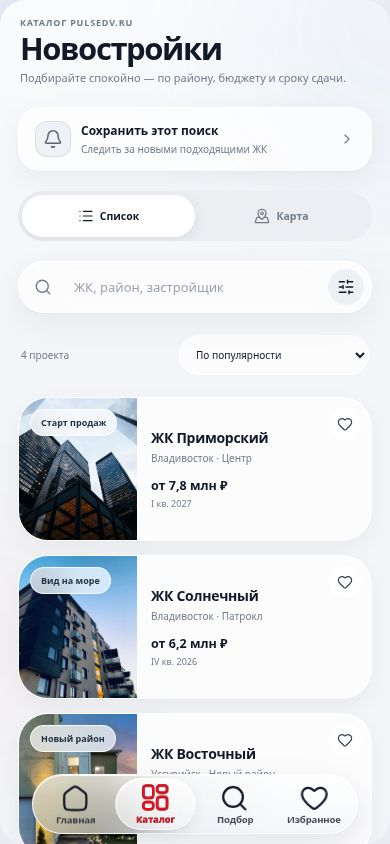
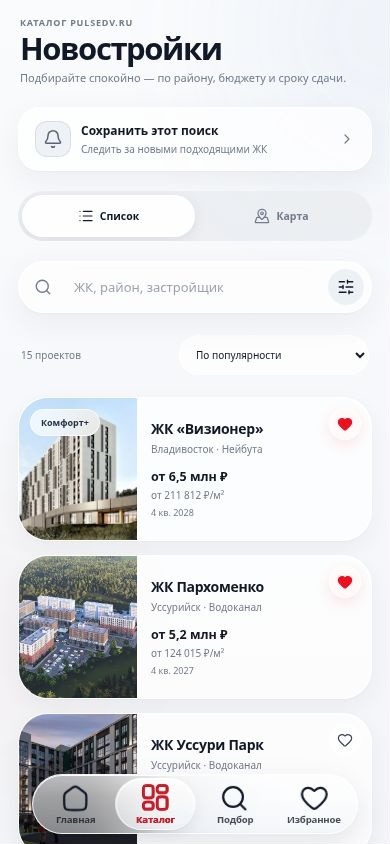
design: add cinematic phone scenes with actual app captures

diff --git a/design/landing-dual-entry/cinema.js b/design/landing-dual-entry/cinema.js
@@ -1,0 +1,85 @@
+// Physically rendered phones composited with continuous browser motion.
+// No WebGL, external scripts, authentication or API calls at runtime.
+const host=document.querySelector('.cinema');
+const stage=document.querySelector('.showcase');
+const pauseButton=document.querySelector('.motion-toggle');
+const caption=document.querySelector('.scene-caption');
+const label=document.querySelector('.scene-label');
+const description=document.querySelector('.scene-description');
+const dots=[...document.querySelectorAll('.scene-dot')];
+const reduced=matchMedia('(prefers-reduced-motion: reduce)');
+const sceneSpecs=[
+ {title:'Новостройки — перед вами.',label:'Выбирайте',screens:['home','catalog'],poses:[[-.97,.32,.25,-.07,.22,-.10,.98],[1.02,-.25,-.42,.08,-.27,.09,.90]]},
+ {title:'Рассмотрите всё до деталей.',label:'Находите своё',screens:['property','floorplans'],poses:[[-.90,-.16,.1,.03,.29,-.12,1.02],[1.12,.43,-.64,-.05,-.30,.16,.84]]},
+ {title:'Сравните варианты. Рассчитайте платёж.',label:'Решайте спокойно',screens:['favorites','mortgage'],poses:[[-1.08,.46,-.55,-.08,.27,-.16,.86],[.93,-.10,.24,.04,-.23,.10,1.01]]},
+ {title:'Рекомендуйте PULSE. Получайте больше.',label:'Партнёрская программа',screens:['partners','home'],poses:[[-.76,.05,.42,.02,.18,-.07,1.08],[1.25,.25,-1.05,-.04,-.32,.17,.78]]},
+ {title:'Новая квартира. Новый iPhone?',label:'Новогодний розыгрыш',screens:['catalog','giveaway'],poses:[[-1.05,.30,-.70,-.04,.32,-.14,.85],[.81,-.13,.38,.02,-.17,.09,1.07]]},
+];
+
+const paths=[...document.querySelectorAll('.flow-line')];
+let raf=0,clock=0,lastTime=0,manualPause=false,inView=true,current=0,initial=true;
+let active=null,leaving=null,transitionAt=0;
+let dimensions={width:600,height:700};
+const clamp=x=>Math.max(0,Math.min(1,x));
+const ease=t=>1-Math.pow(1-t,4);
+function createPair(index){
+ const pair=document.createElement('div');pair.className='phone-pair';pair.dataset.index=String(index);pair.setAttribute('aria-hidden','true');
+ sceneSpecs[index].screens.forEach(name=>{const image=document.createElement('img');image.className='rendered-phone';image.src=`assets/phone-${name}.webp`;image.alt='';image.width=700;image.height=1440;image.draggable=false;pair.append(image);});host.append(pair);return pair;
+}
+function select(index){
+ if(index===current&&!initial)return;
+ leaving?.remove();leaving=active;current=index;active=createPair(index);transitionAt=clock;initial=false;
+ caption.textContent=sceneSpecs[index].title;label.textContent=sceneSpecs[index].label;
+ dots.forEach((d,i)=>d.setAttribute('aria-current',String(i===index)));stage.dataset.scene=String(index);
+}
+function position(pair,phase,dir){
+ if(!pair)return;const poses=sceneSpecs[Number(pair.dataset.index)].poses;
+ [...pair.children].forEach((p,i)=>{
+  const a=poses[i],t=clamp((phase-i*.11)/1.30),e=ease(t),drift=Math.sin(clock*.49+i*1.9)*.018;
+  const shift=dir==='in'?(1-e)*1.30:dir==='out'?-Math.pow(t,3)*1.40:0;
+  const x=(a[0]*.173+shift)*dimensions.width;
+  const y=(-a[1]*.155+drift+(dir==='in'?(1-e)*(i?-.10:.12):dir==='out'?-t*.09:0))*dimensions.height;
+  const roll=(a[5]+(dir==='in'?(1-e)*-.18:dir==='out'?t*.17:0))*180/Math.PI;
+  const turn=Math.sin(clock*.24+i)*2+(dir==='in'?(1-e)*-12:0);
+  p.style.transform=`translate(-50%,-50%) translate3d(${x.toFixed(2)}px,${y.toFixed(2)}px,0) rotate(${roll.toFixed(2)}deg) perspective(1000px) rotateY(${turn.toFixed(2)}deg) scale(${a[6]})`;
+  p.style.opacity=String(dir==='in'?clamp(phase*3-i*.15):1-clamp((t-.70)/.30));
+  p.style.zIndex=String(Math.round((a[2]+2)*10));
+ });
+}
+const lineScenes=[
+ [470,240,160,-30,435,770],
+ [370,430,310,-140,360,920],
+ [535,180,10,140,555,530],
+ [390,360,180,-30,470,840],
+ [490,210,280,-180,380,700]
+];
+function lines(time,phase){
+ const now=lineScenes[current],prev=lineScenes[Number(leaving?.dataset.index??current)];const blend=ease(clamp(phase/1.8));
+ const a=now.map((v,i)=>prev[i]+(v-prev[i])*blend);
+ paths.forEach((p,i)=>{const offset=i*14,wave=Math.sin(time*.26+i*.05)*16;p.setAttribute('d',`M -120 ${a[0]+offset+wave} C ${a[2]} ${a[3]+offset}, ${a[4]} ${a[5]+offset+wave}, 810 ${a[1]+offset}`);});
+}
+function draw(timestamp){
+ raf=0;const dt=lastTime?Math.min(.25,(timestamp-lastTime)/1000):0;lastTime=timestamp;
+ if(!manualPause&&!reduced.matches&&!document.hidden&&inView)clock+=dt;
+ if(!manualPause&&!reduced.matches&&clock-transitionAt>7.4)select((current+1)%sceneSpecs.length);
+ const phase=reduced.matches?2:clock-transitionAt;
+ position(active,phase,'in');position(leaving,phase,'out');lines(clock,phase);
+ description.style.opacity=String(clamp((phase-.35)*1.9));
+ if(phase>1.6&&leaving){leaving.remove();leaving=null;}
+ if(!document.hidden&&inView&&!manualPause&&!reduced.matches)raf=requestAnimationFrame(draw);
+}
+function redraw(){if(!raf){lastTime=0;raf=requestAnimationFrame(draw);}}
+function pauseUI(){pauseButton.setAttribute('aria-pressed',String(manualPause));pauseButton.setAttribute('aria-label',manualPause?'Продолжить анимацию':'Приостановить анимацию');pauseButton.querySelector('.pause-icon').hidden=manualPause;pauseButton.querySelector('.play-icon').hidden=!manualPause;if(manualPause){cancelAnimationFrame(raf);raf=0;}redraw();}
+async function init(){
+ const names=[...new Set(sceneSpecs.flatMap(s=>s.screens))];
+ await Promise.all(names.map(name=>new Promise((resolve,reject)=>{const image=new Image();image.onload=()=>resolve();image.onerror=reject;image.src=`assets/phone-${name}.webp`;})));
+ select(0);if(reduced.matches)clock=2;
+ stage.classList.add('cinema-ready');host.setAttribute('aria-busy','false');
+ new ResizeObserver(()=>{const r=host.getBoundingClientRect();dimensions={width:r.width,height:r.height};redraw();}).observe(host);
+ pauseButton.addEventListener('click',()=>{manualPause=!manualPause;pauseUI();});
+ dots.forEach((d,i)=>d.addEventListener('click',()=>{select(i);if(reduced.matches||manualPause)clock=transitionAt+2;redraw();}));
+ document.addEventListener('visibilitychange',()=>{if(document.hidden){cancelAnimationFrame(raf);raf=0;}else redraw();});
+ new IntersectionObserver(entries=>{inView=entries[0].isIntersecting;if(inView)redraw();else{cancelAnimationFrame(raf);raf=0;}},{threshold:.01}).observe(stage);
+ reduced.addEventListener('change',()=>{clock=transitionAt+2;pauseUI();});redraw();
+}
+init().catch(()=>{host.setAttribute('aria-busy','false');document.querySelector('.scene-controls').hidden=true;});

diff --git a/design/landing-dual-entry/style.css b/design/landing-dual-entry/style.css
@@ -8,3 +8,42 @@
 @media(min-width:960px){.entry-button{flex:1;max-width:240px}.phone-catalog{right:6%}}
 @media(max-width:480px){.phone{width:calc(50% - 9px);height:auto;aspect-ratio:183/400}.phone-screen{position:absolute;inset:5px;width:auto;height:auto}.phone-home{left:9px}.phone-catalog{right:9px}}
 @media(prefers-reduced-motion:reduce){*{transition:none!important}}
+
+/* Cinematic product stage. Phone geometry and materials live in cinema.js. */
+.hero{grid-template-columns:.94fr 1.06fr;gap:0;min-height:650px;padding-bottom:24px}
+.showcase{height:min(720px,calc(100svh - 165px));min-height:570px;width:calc(100% + 48px);margin-left:-8px;isolation:isolate;overflow:clip;contain:layout paint}
+.cinema{position:absolute;inset:-8% -9% 3%;z-index:2;pointer-events:none}
+.cinema canvas{display:block;width:100%;height:100%;outline:none}
+.flow-pattern{position:absolute;width:120%;height:106%;left:-10%;top:-8%;overflow:visible;z-index:0;pointer-events:none}
+.flow-line{fill:none;stroke:#d5d0cc;stroke-width:.8;opacity:.55;vector-effect:non-scaling-stroke}
+.flow-line:nth-of-type(2){opacity:.35}.flow-line:nth-of-type(3){opacity:.25}.flow-line:nth-of-type(5){opacity:.20}
+.flow-line-red{stroke:url(#flow-ink);stroke-width:1.5;opacity:.85}
+.stage-shadow{position:absolute;left:13%;right:6%;height:9%;bottom:13%;background:radial-gradient(ellipse,#605b5524,transparent 68%);filter:blur(13px);transform:rotate(-6deg);z-index:1;pointer-events:none}
+.scene-description{position:absolute;bottom:6%;left:8%;right:4%;z-index:3;text-align:center;pointer-events:none}
+.scene-label{display:block;color:var(--red);font-size:10px;font-weight:600;letter-spacing:.1em;text-transform:uppercase;margin-bottom:6px}
+.scene-caption{font-size:clamp(14px,1.25vw,18px);font-weight:600;letter-spacing:-.03em;line-height:1.4}
+.scene-controls{position:absolute;bottom:0;left:0;right:0;display:flex;justify-content:center;gap:15px;align-items:center;z-index:4}
+.scene-picker{display:flex;gap:2px;align-items:center}.scene-dot{appearance:none;border:0;background:none;padding:10px 6px;cursor:pointer;width:23px;height:30px;position:relative}
+.scene-dot:before{content:"";display:block;height:3px;width:11px;border-radius:10px;background:#dedfe2;transition:background .3s,width .3s}
+.scene-dot[aria-current="true"]{width:35px}.scene-dot[aria-current="true"]:before{background:var(--red);width:23px}
+.motion-toggle{border:1px solid #e7e7e8;border-radius:50%;background:white;width:30px;height:30px;display:grid;place-items:center;cursor:pointer;color:#6a6b70;padding:0}
+.motion-toggle svg{width:13px;height:13px;stroke-width:2}.motion-toggle [hidden]{display:none}.scene-controls[hidden]{display:none}
+.scene-dot:focus-visible,.motion-toggle:focus-visible{outline:2px solid var(--red);outline-offset:2px}
+.fallback-phones{position:absolute;inset:5% 4% 16%;z-index:1;display:flex;align-items:center;justify-content:center;gap:8%;transition:opacity .35s}
+.fallback-phone{width:44%;border:5px solid #17181a;border-radius:34px;overflow:hidden;box-shadow:0 18px 22px -16px #0006;transform:rotate(-6deg)}
+.fallback-phone:last-child{transform:translateY(32px) rotate(7deg)}.fallback-phone img{width:100%;height:auto}.cinema-ready .fallback-phones{opacity:0;visibility:hidden}
+.no-motion-note{position:absolute;bottom:-30px;font-size:12px;text-align:center;width:100%}
+@media(min-width:1500px){.showcase{min-height:650px;max-height:790px}.hero{min-height:730px}}
+@media(min-width:960px) and (max-width:1190px){.showcase{min-height:520px;height:620px;width:calc(100% + 28px)}.scene-caption{font-size:15px}.hero{min-height:610px}}
+@media(max-width:959px){.hero{gap:14px;padding-bottom:0}.showcase{margin:0;width:calc(100% + 40px);min-height:0;height:660px;overflow:clip}.cinema{inset:-7% -3% 5%}.scene-description{bottom:7%;left:3%;right:3%}.scene-caption{font-size:18px}.scene-controls{bottom:0}.footer{padding-top:24px}.copy{z-index:3}}
+@media(max-width:480px){.showcase{height:500px;min-height:0;width:calc(100% + 36px)}.cinema{inset:-9% -17% 2%}.hero{gap:12px}.scene-description{bottom:9%;left:7%;right:7%}.scene-caption{font-size:15px}.scene-label{font-size:9px}.scene-controls{bottom:1%}.flow-pattern{width:130%;left:-15%}.stage-shadow{bottom:16%}.fallback-phones{inset:7% 6% 19%;gap:6%}.fallback-phone{border-radius:25px}.footer{padding-top:18px}}
+@media(max-width:360px){.showcase{height:450px}.scene-caption{font-size:13px}}
+@media(prefers-reduced-motion:reduce){.flow-line{transition:none}.scene-dot:before{transition:none}}
+
+.phone-pair{position:absolute;inset:0;pointer-events:none}.rendered-phone{position:absolute;left:50%;top:46%;width:43%;max-width:none;height:auto;will-change:transform;filter:drop-shadow(9px 20px 12px #27232020);backface-visibility:hidden}.cinema{inset:-3% -6% 7%}.scene-description{bottom:7%}
+@media(max-width:959px){.cinema{inset:-2% -2% 9%}.rendered-phone{width:43%}}
+@media(max-width:480px){.cinema{inset:-4% -14% 9%}.rendered-phone{width:43%}.scene-description{bottom:9%}}
+
+@media(min-width:960px){.rendered-phone{width:35%;top:50%}}
+
+@media(max-width:480px){.rendered-phone{width:37%}}

diff --git a/design/landing-dual-entry/index.html b/design/landing-dual-entry/index.html
@@ -3,6 +3,8 @@
 <head>
 <meta charset="utf-8"><meta name="viewport" content="width=device-width, initial-scale=1"><meta name="theme-color" content="#fff">
 <title>PULSEDV.RU — приложение на вашем телефоне</title>
+<meta name="description" content="Новостройки Приморья в PULSEDV.RU: каталог, планировки, расчёт ипотеки и партнёрская программа.">
+<link rel="preload" as="image" href="assets/app-home.jpg">
 <link rel="icon" href="assets/pulse-mark-180-v2.png"><link rel="stylesheet" href="style.css">
 </head>
 <body>
@@ -32,10 +34,21 @@
 </div>
 
 </section>
-<section class="showcase" aria-label="Интерфейс приложения PULSEDV.RU">
-<div class="phone phone-home"><div class="phone-edge"></div><div class="phone-screen"><div class="status"><span>9:41</span><span class="status-icons"><i></i><b>◔</b><em></em></span></div><div class="island"></div><img class="screen-image" src="assets/app-home.jpg" alt="Главная PULSEDV.RU: поиск ЖК, ипотека и избранное" width="390" height="844"><div class="home-indicator"></div></div></div>
-<div class="phone phone-catalog"><div class="phone-edge"></div><div class="phone-screen"><div class="status"><span>9:41</span><span class="status-icons"><i></i><b>◔</b><em></em></span></div><div class="island"></div><div class="catalog-crop" role="img" aria-label="Каталог PULSEDV.RU с фильтрами и карточками новостроек"><img src="assets/app-catalog.jpg" alt="" width="390" height="844"></div><div class="home-indicator"></div></div></div>
+<section class="showcase" aria-label="Возможности приложения PULSEDV.RU">
+ <svg class="flow-pattern" viewBox="0 0 700 700" preserveAspectRatio="none" aria-hidden="true"><defs><linearGradient id="flow-ink" x1="0" y1="1" x2="1" y2="0"><stop stop-color="#df1428" stop-opacity="0"/><stop offset=".3" stop-color="#df1428"/><stop offset=".8" stop-color="#df1428" stop-opacity=".45"/><stop offset="1" stop-color="#df1428" stop-opacity="0"/></linearGradient></defs>
+ <path class="flow-line" d="M -120 410 C 300 -40 430 655 810 125"/><path class="flow-line" d="M -120 425 C 300 -25 430 670 810 140"/><path class="flow-line" d="M -120 440 C 300 -10 430 685 810 155"/><path class="flow-line flow-line-red" d="M -120 455 C 300 5 430 700 810 170"/><path class="flow-line" d="M -120 470 C 300 20 430 715 810 185"/>
+ </svg>
+ <div class="stage-shadow" aria-hidden="true"></div>
+ <div class="fallback-phones" aria-hidden="true"><div class="fallback-phone"><img src="assets/app-home.jpg" alt="" width="390" height="844"></div><div class="fallback-phone"><img src="assets/app-catalog.jpg" alt="" width="390" height="844"></div></div>
+ <div class="cinema" role="img" aria-label="Объёмные телефоны с экранами каталога, ЖК, ипотеки, партнёрской программы и конкурса" aria-busy="true"></div>
+ <div class="scene-description"><span class="scene-label">Выбирайте</span><p class="scene-caption">Новостройки — перед вами.</p></div>
+ <div class="scene-controls" aria-label="Сцены презентации">
+  <div class="scene-picker"><button class="scene-dot" aria-label="Каталог и главная" aria-current="true"></button><button class="scene-dot" aria-label="ЖК и планировки" aria-current="false"></button><button class="scene-dot" aria-label="Избранное и ипотека" aria-current="false"></button><button class="scene-dot" aria-label="Партнёрская программа" aria-current="false"></button><button class="scene-dot" aria-label="Новогодний розыгрыш" aria-current="false"></button></div>
+  <button class="motion-toggle" aria-label="Приостановить анимацию" aria-pressed="false"><svg class="pause-icon" viewBox="0 0 24 24"><path d="M9 6v12M15 6v12"/></svg><svg class="play-icon" viewBox="0 0 24 24" hidden><path d="m9 5 10 7-10 7Z"/></svg></button>
+ </div>
+ <noscript><p class="no-motion-note">Каталог, подбор квартиры, ипотека и партнёрская программа — в PULSE.</p></noscript>
 </section>
 </main>
 <footer class="wrap footer"><p>Владивосток <span>·</span> Уссурийск <span>·</span> Артём</p><p>PULSEDV.RU <i></i> Больше, чем квадратные метры</p></footer>
+<script type="module" src="cinema.js"></script>
 </body></html>

diff --git a/design/landing-dual-entry/source/render_phones.py b/design/landing-dual-entry/source/render_phones.py
@@ -1,0 +1,75 @@
+"""Blender 4.3: physically shaded phone renders; no external model or textures.
+Run from design/landing-dual-entry with blender -b -t 8 --python source/render_phones.py
+"""
+import bpy,math,os
+from mathutils import Vector
+from pathlib import Path
+root=Path(__file__).resolve().parents[1]
+bpy.ops.object.select_all(action='SELECT');bpy.ops.object.delete(use_global=False)
+scene=bpy.context.scene;scene.render.engine='CYCLES';scene.cycles.samples=80;scene.cycles.use_denoising=False
+scene.render.resolution_x=700;scene.render.resolution_y=1440;scene.render.resolution_percentage=100;scene.render.film_transparent=True
+scene.view_settings.view_transform='Standard';scene.view_settings.look='Medium High Contrast';scene.view_settings.exposure=0;scene.view_settings.gamma=1
+scene.world.color=(.25,.25,.25)
+
+def mat(name,color,metal=0,rough=.3):
+ m=bpy.data.materials.new(name);m.diffuse_color=(*color,1);m.use_nodes=True
+ p=m.node_tree.nodes.get('Principled BSDF');p.inputs['Base Color'].default_value=(*color,1);p.inputs['Metallic'].default_value=metal;p.inputs['Roughness'].default_value=rough
+ return m
+rim=mat('Natural titanium',(0.42,.405,.385),1,.23)
+black=mat('Polished glass edge',(.012,.014,.018),.4,.12)
+back=mat('Satin titanium',(.23,.225,.22),.7,.35)
+antenna=mat('Antenna ceramic',(.09,.09,.09),0,.5)
+pillmat=mat('Dynamic island',(.002,.002,.003),0,.18)
+lensmat=mat('Camera sapphire',(.012,.025,.055),.75,.12)
+rootobj=bpy.data.objects.new('iPhone',None);scene.collection.objects.link(rootobj)
+
+def contour(w,h,r,n=20):
+ out=[]
+ for cx,cy,a in [(w/2-r,h/2-r,0),(-w/2+r,h/2-r,90),(-w/2+r,-h/2+r,180),(w/2-r,-h/2+r,270)]:
+  for i in range(n+1):
+   th=math.radians(a+i*90/n);out.append((cx+r*math.cos(th),cy+r*math.sin(th)))
+ return out
+
+def body(name,w,h,r,d,z,m):
+ co=contour(w,h,r);n=len(co);verts=[(x,y,z-d/2) for x,y in co]+[(x,y,z+d/2) for x,y in co]
+ faces=[tuple(reversed(range(n))),tuple(range(n,2*n))]+[(i,(i+1)%n,(i+1)%n+n,i+n) for i in range(n)]
+ mesh=bpy.data.meshes.new(name);mesh.from_pydata(verts,[],faces);mesh.update();o=bpy.data.objects.new(name,mesh);scene.collection.objects.link(o);o.parent=rootobj;mesh.materials.append(m)
+ for f in mesh.polygons:f.use_smooth=len(f.vertices)==4
+ bevel=o.modifiers.new('Machined edge','BEVEL');bevel.width=.009;bevel.segments=3
+ o.modifiers.new('Corner normals','WEIGHTED_NORMAL');return o
+body('Titanium chassis',1.73,3.73,.29,.16,0,rim)
+body('Glass perimeter',1.698,3.697,.273,.025,.086,black)
+body('Rear glass',1.696,3.695,.273,.015,-.087,back)
+
+def plane(name,w,h,r,z,m):
+ co=contour(w,h,r,32);mesh=bpy.data.meshes.new(name);mesh.from_pydata([(x,y,z) for x,y in co],[],[tuple(range(len(co)))]);mesh.update()
+ uv=mesh.uv_layers.new(name='UVMap')
+ for f in mesh.polygons:
+  for li in f.loop_indices:
+   v=mesh.vertices[mesh.loops[li].vertex_index].co;uv.data[li].uv=(v.x/w+.5,v.y/h+.5)
+ o=bpy.data.objects.new(name,mesh);scene.collection.objects.link(o);o.parent=rootobj;mesh.materials.append(m);return o
+screenmat=bpy.data.materials.new('OLED screen');screenmat.use_nodes=True;nt=screenmat.node_tree;nt.nodes.clear();out=nt.nodes.new('ShaderNodeOutputMaterial');em=nt.nodes.new('ShaderNodeEmission');em.inputs['Strength'].default_value=.92;tex=nt.nodes.new('ShaderNodeTexImage');nt.links.new(tex.outputs['Color'],em.inputs['Color']);nt.links.new(em.outputs[0],out.inputs['Surface'])
+plane('OLED',1.597,3.588,.23,.106,screenmat)
+pill=plane('Dynamic island',.43,.112,.056,.108,pillmat);pill.location.y=1.68
+bpy.ops.mesh.primitive_uv_sphere_add(segments=24,ring_count=12,radius=.019,location=(.145,1.68,.11));lens=bpy.context.object;lens.scale.z=.13;lens.data.materials.append(lensmat);lens.parent=rootobj
+for x,y,l in [(-.876,.96,.18),(-.876,.49,.36),(-.876,-.02,.36),(.876,.48,.56)]:
+ bpy.ops.mesh.primitive_cube_add(size=1,location=(x,y,0));o=bpy.context.object;o.name='Titanium button';o.dimensions=(.025,l,.055);bpy.ops.object.transform_apply(location=False,rotation=False,scale=True);o.parent=rootobj;o.data.materials.append(rim);mod=o.modifiers.new('Rounded button','BEVEL');mod.width=.012;mod.segments=5;o.modifiers.new('Normals','WEIGHTED_NORMAL')
+for x in [-.869,.869]:
+ for y in [-1.28,1.28]:
+  bpy.ops.mesh.primitive_cube_add(size=1,location=(x,y,0));o=bpy.context.object;o.dimensions=(.004,.024,.15);o.data.materials.append(antenna);o.parent=rootobj
+
+def light(name,loc,power,size,target=(0,0,0),scale=None):
+ data=bpy.data.lights.new(name,'AREA');data.energy=power;data.shape='RECTANGLE';data.size=size;data.size_y=size*.6
+ o=bpy.data.objects.new(name,data);scene.collection.objects.link(o);o.location=loc;o.rotation_euler=(Vector(target)-o.location).to_track_quat('-Z','Y').to_euler()
+light('Large softbox left',(-3,4,5),450,4)
+light('White strip right',(3,1,2),300,2)
+light('Edge strip',(-2,-2,-1),350,3)
+light('Front fill',(0,1,6),70,5)
+camdata=bpy.data.cameras.new('Product camera');cam=bpy.data.objects.new('Product camera',camdata);scene.collection.objects.link(cam);cam.location=(0,0,9);cam.rotation_euler=(Vector((0,0,0))-cam.location).to_track_quat('-Z','Y').to_euler();camdata.type='ORTHO';camdata.ortho_scale=4.05;scene.camera=cam
+# Small true camera turn exposes both polished edge and side buttons.
+rootobj.rotation_euler=(math.radians(-2),math.radians(-12),0)
+scene.render.image_settings.file_format='PNG';scene.render.image_settings.color_mode='RGBA'
+for name in ['home','catalog','property','floorplans','favorites','mortgage','partners','giveaway']:
+ rootobj.rotation_euler.y=math.radians(12 if name in ['catalog','floorplans','mortgage','giveaway'] else -12)
+ image=bpy.data.images.load(str(root/'source'/('screen-'+name+'.png')),check_existing=True);tex.image=image
+ scene.render.filepath=str(root/'source'/('phone-'+name+'.png'));bpy.ops.render.render(write_still=True)

diff --git a/design/landing-dual-entry/source/prepare_screens.py b/design/landing-dual-entry/source/prepare_screens.py
@@ -1,0 +1,19 @@
+"""Prepare screen maps from browser captures. Run from this directory's parent.
+Requires Pillow; does not read or modify the live application.
+"""
+from PIL import Image, ImageDraw, ImageFont
+from pathlib import Path
+root=Path(__file__).resolve().parents[1]
+font_path='/usr/share/fonts/truetype/dejavu/DejaVuSans.ttf'
+font=ImageFont.truetype(font_path,24)
+for name in ['home','catalog','property','floorplans','favorites','mortgage','partners','giveaway']:
+ image=Image.new('RGB',(780,1690),'#f8fafc')
+ image.paste(Image.open(root/'assets'/('app-'+name+'.jpg')).resize((780,1610)),(0,80))
+ d=ImageDraw.Draw(image);d.text((57,29),'9:41',fill='#15171b',font=font)
+ for i in range(4):d.rectangle((630+i*8,49-i*4,635+i*8,58),fill='#15171b')
+ d.arc((671,30,697,55),215,325,fill='#15171b',width=3)
+ d.arc((677,37,691,52),215,325,fill='#15171b',width=3)
+ d.ellipse((682,44,686,48),fill='#15171b')
+ d.rounded_rectangle((708,31,737,46),radius=4,outline='#15171b',width=2)
+ d.rectangle((712,35,732,42),fill='#15171b');d.rectangle((739,36,741,41),fill='#15171b')
+ image.save(root/'source'/('screen-'+name+'.png'))

diff --git a/design/landing-dual-entry/README.md b/design/landing-dual-entry/README.md
@@ -1,17 +1,50 @@
-# Landing visual proposal
+# PULSEDV cinematic landing proposal
 
-Review-only HTML/CSS proposal; production dist, acquisition tracking and deployment remain unchanged.
-Preserves the existing white/red brand, wordmark and handwritten accents.
-Two equal entry controls lead to /app/ and the Telegram Main Mini App.
-The QR opens the landing to choose either route; it is hidden on mobile.
-Phone frames show screenshots of the actual application from an isolated
-synthetic catalog fixture, not live inventory or verified current prices.
-Only the fixture's public home/catalog screens are included; no customer data.
-App Store is an inactive preview status, not an available store download.
+Review-only successor to the dual-entry proposal. Production dist, app code,
+backend, acquisition tracking and server configuration are unchanged.
 
-Before release: confirm the iOS status text, enable and verify /app/, attach
-first-party channel attribution to both entry paths, and replace fixture
-screens with approved current catalog screenshots. Keep the existing Instagram
-destination and tracking when integrating with production landing markup.
+A 37-second loop presents five scenes: home/catalog, property/floorplan,
+favorites/mortgage, partner programme, giveaway. New phone pairs enter from the
+right as the previous pair exits left, with different positions, scale and roll.
+Continuous red/graphite curves morph between scene-specific paths. Each scene
+has a short benefit caption, an accessible scene selector and a pause control.
+Reduced-motion visitors get a still composition with manual scene navigation.
+The animation pauses in hidden tabs and when the stage is outside the viewport.
 
-Revision 2: removed floating marketing cards, ornaments and benefit tiles; replaced both screenshots with cursor-free browser captures; simplified equal-size entry buttons. Desktop and 375px mobile layout reviewed.
+Phones are original Blender/Cycles renders with titanium chassis, rounded glass,
+side buttons, antenna seams, Dynamic Island and studio lighting. Eight transparent
+WebP assets total under 1 MB. Browser animation uses transforms and SVG; no WebGL,
+external runtime libraries, live API calls or video downloads are required.
+If assets or JavaScript fail, the two screenshot phone fallback remains visible.
+
+## Screenshot sources
+
+Screens were captured from the actual React application components on branch
+`design/landing-dual-entry`, at a 390 × 844 viewport. Public catalog/state and
+Mezhdurechye property detail were retrieved from pulsedv.ru on 8 November 2026;
+images, prices and floorplans come from that public snapshot. Favorites are a
+local illustrative selection, not a real customer's account. Mortgage is the
+application's own illustrative calculation, not an approved bank offer.
+Partner screen is the public programme introduction; it contains no earnings,
+referrals, customer data or claims of completed payouts.
+
+Giveaway uses the real GiveawayPage and campaign artwork with source-defined
+DEFAULT_GIVEAWAY settings enabled in an isolated local capture only. No entry or
+ticket is created. Its countdown is a screenshot, not a live counter. Production
+campaign dates/settings and availability must be verified before publishing the
+proposal on pulsedv.ru. The iPhone artwork inside the giveaway is illustrative.
+
+## Preview
+
+Run `npm run dev` from this directory, then open the printed local server URL.
+The optional `/capture-frame` route requires an ignored local `.qa/built` app
+capture build. `/mobile-review?width=390` provides an isolated viewport for QA.
+Neither route changes the production application.
+
+To recreate device renders: run `python3 source/prepare_screens.py`, then
+`blender -b -t 8 --python source/render_phones.py`. Convert generated transparent
+PNGs to WebP with Pillow. The browser runtime has no build or install step.
+
+Keep both equal entry paths, the existing Instagram destination and acquisition
+attribution when integrating with the production landing. App Store remains an
+inactive development status. This proposal does not enable or deploy /app/.
